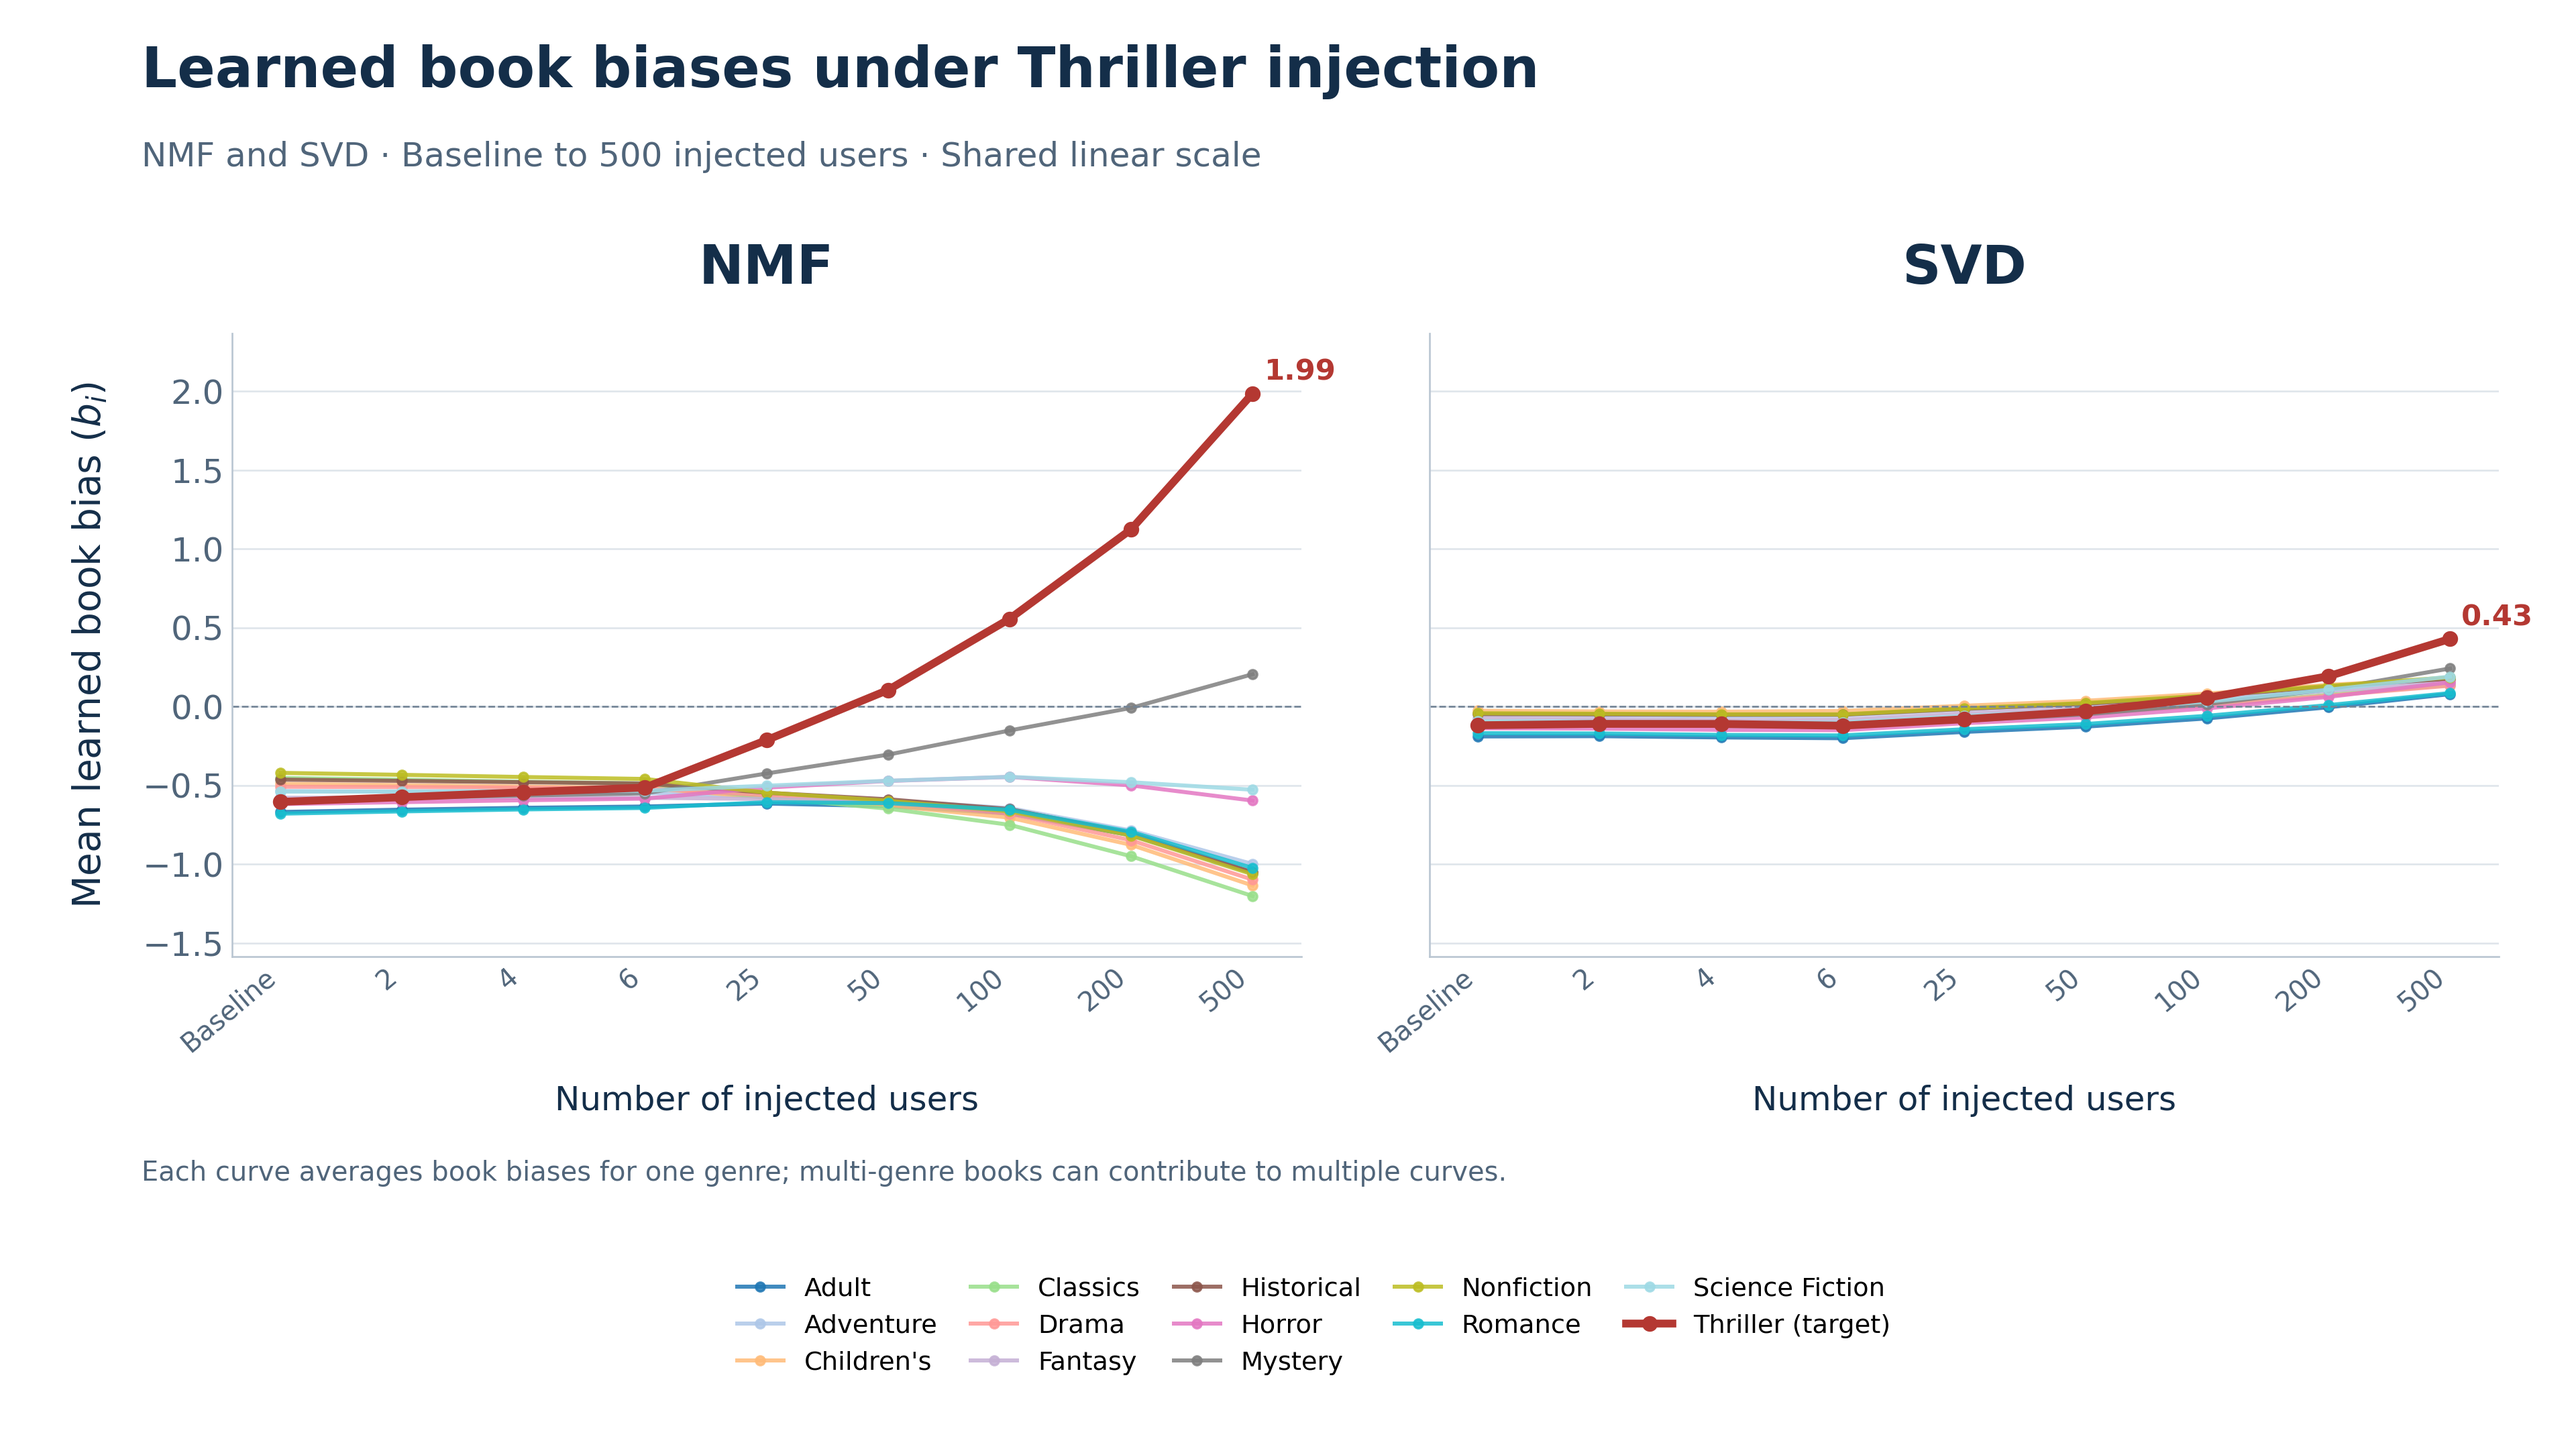
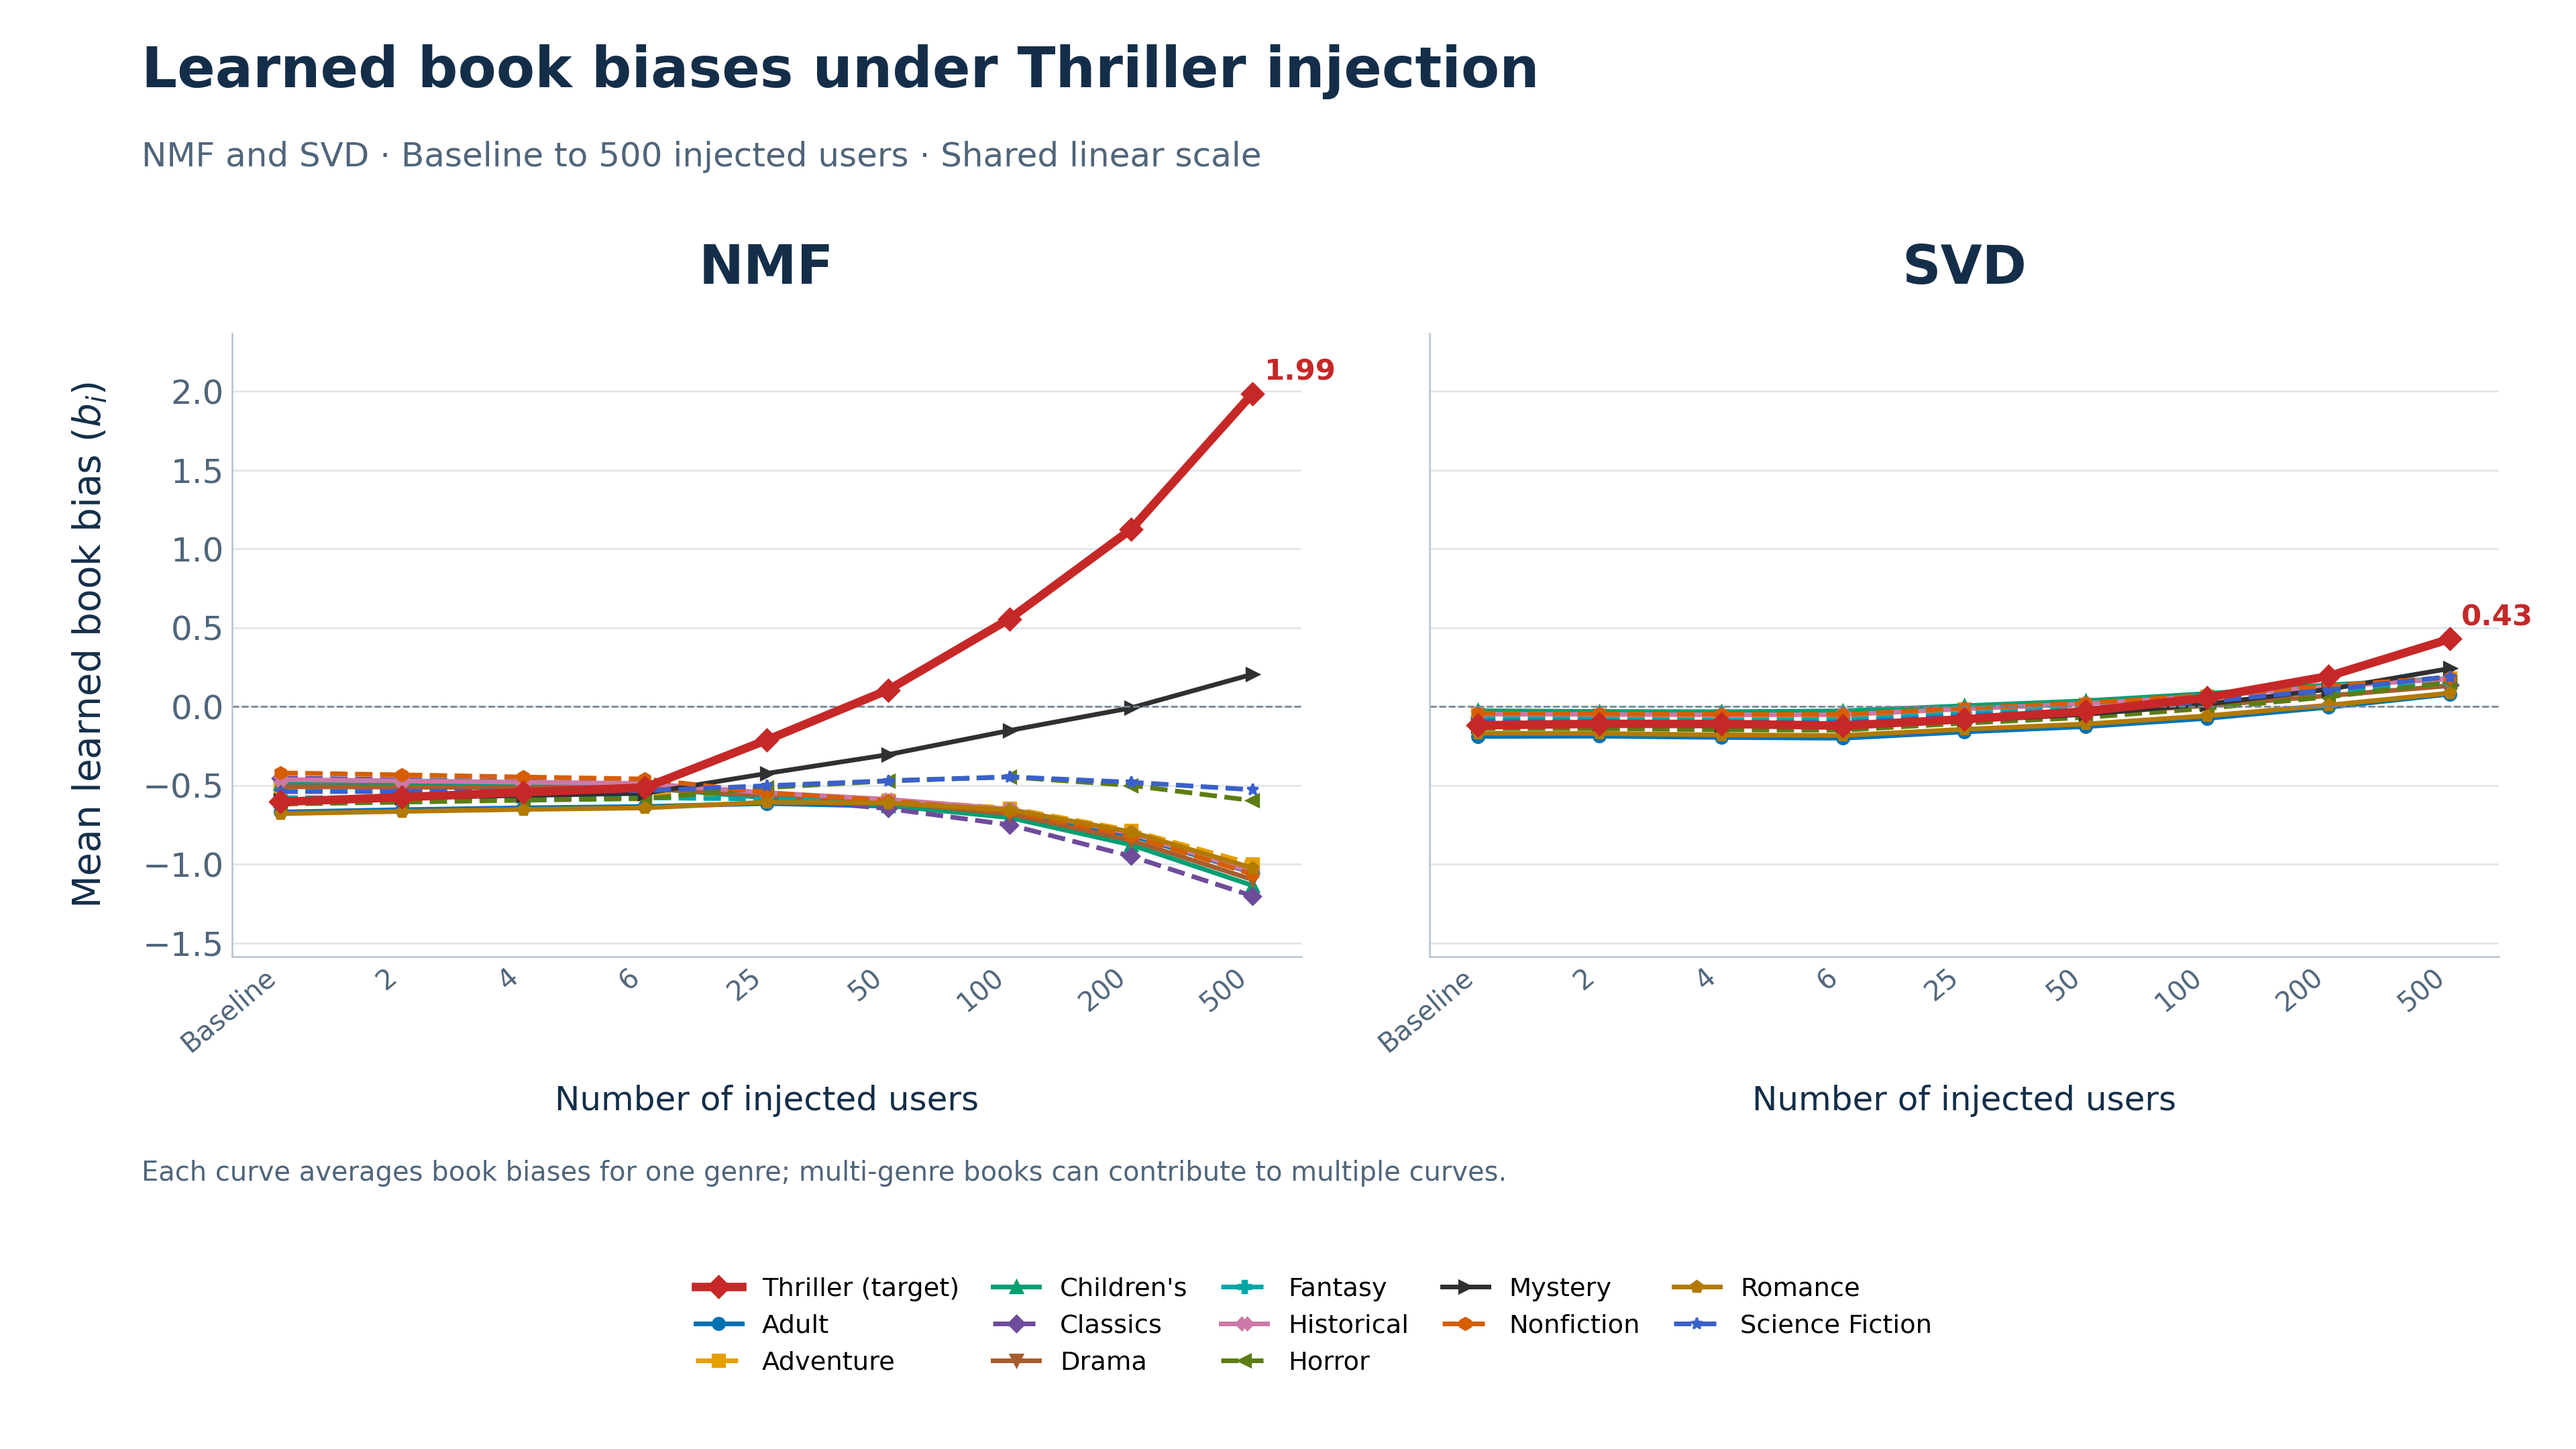
Improve figure colors and add Drama presentation comparisons

diff --git a/Book/current/PerturbRec/svd_nmf/layer1/notebook/build_thriller_up_to_500.py b/Book/current/PerturbRec/svd_nmf/layer1/notebook/build_thriller_up_to_500.py
@@ -1,5 +1,5 @@
 #!/usr/bin/env python3
-"""Two PNG presentation figures from existing controlled tables; no retraining."""
+"""PNG presentation figures for Thriller/Drama from existing controlled tables; no retraining."""
 from pathlib import Path
 import numpy as np,pandas as pd
 import matplotlib
@@ -8,9 +8,13 @@ import matplotlib.pyplot as plt
 from matplotlib.ticker import MultipleLocator
 ROOT=Path('/home/moshtasa/Research/phd-recsys/Book/current/PerturbRec/svd_nmf/layer1')
 OUT=ROOT/'result/final_results'
+GENRE='Thriller'
 COUNTS=[0,2,4,6,25,50,100,200,500]
 TICKS=['Baseline']+list(map(str,COUNTS[1:]))
-NAVY='#142E49';MUTED='#50657A';BLUE='#2868A2';TEAL='#148277';TARGET='#B43832'
+NAVY='#142E49';MUTED='#50657A';TARGET='#C62828'
+DOSE_COLORS=['#586979','#0072B2','#E69F00','#009E73','#7B4AB5','#D55E00','#009DBA','#C75B9B','#233B75']
+GENRE_COLORS={'Adult':'#0072B2','Adventure':'#E69F00',"Children's":'#009E73','Classics':'#6F4C9B','Drama':'#A65E2E','Fantasy':'#00A6A6','Historical':'#CC79A7','Horror':'#5C7D14','Mystery':'#303030','Nonfiction':'#D55E00','Science Fiction':'#3A60CB','Romance':'#B27A00','Thriller':'#006D77'}
+MARKERS=['o','s','^','D','v','P','X','<','>','h','p','*']
 plt.rcParams.update({'font.family':'DejaVu Sans','font.size':15,'axes.spines.top':False,'axes.spines.right':False})
 
 def style(ax):
@@ -25,59 +29,62 @@ def save(fig,name):
  fig.savefig(p,dpi=240,facecolor='white');plt.close(fig);print('SAVED',p,flush=True)
 
 def bars():
- df=pd.read_csv(ROOT/'tables/controlled_thriller_top15.csv')
- df=df[(df.genre=='Thriller')&(df.k==15)&df.n_fake.isin(COUNTS)]
+ df=pd.read_csv(ROOT/f'tables/controlled_{GENRE.lower()}_top15.csv')
+ df=df[(df.genre==GENRE)&(df.k==15)&df.n_fake.isin(COUNTS)]
  assert len(df)==18 and (df.n_users==53424).all()
  fig,axes=plt.subplots(1,2,figsize=(16,9),sharey=True)
- for ax,model,color in zip(axes,['nmf','svd'],[BLUE,TEAL]):
+ for ax,model in zip(axes,['nmf','svd']):
   d=df[df.model==model].sort_values('n_fake');assert d.n_fake.tolist()==COUNTS
   assert d.mean_target_count.between(0,15).all()
   vals=d.mean_target_count.to_numpy()
-  ax.bar(range(len(COUNTS)),vals,width=.76,color=['#576C80']+[color]*8,zorder=3)
+  ax.bar(range(len(COUNTS)),vals,width=.76,color=DOSE_COLORS,edgecolor='white',linewidth=1.2,zorder=3)
   for x,y in enumerate(vals):ax.text(x,y+.20,f'{y:.2f}',ha='center',fontsize=12,weight='bold',color=NAVY)
   style(ax);ax.set_ylim(0,15);ax.yaxis.set_major_locator(MultipleLocator(3))
   ax.set_title(model.upper(),fontsize=24,weight='bold',color=NAVY,pad=22)
- axes[0].set_ylabel('Mean Thriller books in Top-15',fontsize=17,color=NAVY,labelpad=15)
+ axes[0].set_ylabel(f'Mean {GENRE} books in Top-15',fontsize=17,color=NAVY,labelpad=15)
  fig.subplots_adjust(left=.09,right=.97,bottom=.23,top=.77,wspace=.12)
- fig.text(.055,.94,'Thriller recommendations after synthetic-user injection',fontsize=25,weight='bold',color=NAVY)
+ fig.text(.055,.94,f'{GENRE} recommendations after synthetic-user injection',fontsize=25,weight='bold',color=NAVY)
  fig.text(.055,.885,'NMF and SVD · Top-15 · Baseline to 500 injected users',fontsize=15,color=MUTED)
- fig.text(.055,.09,'Mean over 53,424 real users; previously rated books excluded. Gray bars = baseline.',fontsize=12.5,color=NAVY)
- fig.text(.055,.045,'Synthetic profiles: Thriller books rated 5, other books rated 1. Existing controlled runs; no retraining.',fontsize=12,color=MUTED)
- save(fig,'Thriller_bars_top15_up_to_500.png')
+ fig.text(.055,.09,'Mean over 53,424 real users; previously rated books excluded. Matching colors represent the same injection size in both models.',fontsize=12.5,color=NAVY)
+ fig.text(.055,.045,f'Synthetic profiles: {GENRE} books rated 5, other books rated 1. Existing controlled runs; no retraining.',fontsize=12,color=MUTED)
+ save(fig,f'{GENRE}_bars_top15_up_to_500.png')
 
 def bias():
  sets={}
  for model in ['nmf','svd']:
   rows=[]
   for n in COUNTS:
-   name='ORIGINAL_bi_per_genre.csv' if n==0 else f'f_Thriller_{n}u_pos5_neg1_books_bi_per_genre.csv'
+   name='ORIGINAL_bi_per_genre.csv' if n==0 else f'f_{GENRE}_{n}u_pos5_neg1_books_bi_per_genre.csv'
    d=pd.read_csv(ROOT/'result'/model/'bi'/name)
    d=d[(d.n_fake==n)&(d.genre.str.lower()!='unknown')]
    assert not d.genre.duplicated().any() and (d.training_protocol=='controlled_clean_catalog').all()
    rows.append(d)
   sets[model]=pd.concat(rows,ignore_index=True)
  genres=sorted(sets['nmf'].genre.unique());assert len(genres)==13 and set(genres)==set(sets['svd'].genre)
- others=[g for g in genres if g!='Thriller'];colors=plt.cm.tab20(np.linspace(0,1,len(others)))
+ others=[g for g in genres if g!=GENRE];assert set(genres)==set(GENRE_COLORS)
  fig,axes=plt.subplots(1,2,figsize=(16,9),sharey=True)
  allvalues=pd.concat(list(sets.values())).avg_bi
  lo=float(allvalues.min());hi=float(allvalues.max());pad=.12*(hi-lo)
  for ax,model in zip(axes,['nmf','svd']):
   data=sets[model]
-  for genre,c in zip(others,colors):
+  for j,genre in enumerate(others):
    d=data[data.genre==genre].sort_values('n_fake');assert d.n_fake.tolist()==COUNTS
-   ax.plot(range(len(COUNTS)),d.avg_bi,'o-',lw=1.8,ms=4,color=c,alpha=.85,label=genre)
-  d=data[data.genre=='Thriller'].sort_values('n_fake');assert d.n_fake.tolist()==COUNTS
-  ax.plot(range(len(COUNTS)),d.avg_bi,'o-',lw=3.5,ms=6,color=TARGET,label='Thriller (target)',zorder=10)
+   ax.plot(range(len(COUNTS)),d.avg_bi,marker=MARKERS[j],ls='-' if j%2==0 else '--',lw=2.1,ms=5.3,color=GENRE_COLORS[genre],alpha=1,label=genre)
+  d=data[data.genre==GENRE].sort_values('n_fake');assert d.n_fake.tolist()==COUNTS
+  ax.plot(range(len(COUNTS)),d.avg_bi,'D-',lw=3.8,ms=7,color=TARGET,label=f'{GENRE} (target)',zorder=10)
   ax.annotate(f'{d.avg_bi.iloc[-1]:.2f}',(8,d.avg_bi.iloc[-1]),xytext=(5,6),textcoords='offset points',color=TARGET,weight='bold',fontsize=13)
   ax.axhline(0,color='#738496',lw=.8,ls='--');style(ax)
   ax.set_ylim(lo-pad,hi+pad);ax.set_title(model.upper(),fontsize=24,weight='bold',color=NAVY,pad=22)
  axes[0].set_ylabel(r'Mean learned book bias ($b_i$)',fontsize=17,color=NAVY,labelpad=15)
  fig.subplots_adjust(left=.09,right=.97,bottom=.34,top=.77,wspace=.12)
- fig.text(.055,.94,'Learned book biases under Thriller injection',fontsize=25,weight='bold',color=NAVY)
+ fig.text(.055,.94,f'Learned book biases under {GENRE} injection',fontsize=25,weight='bold',color=NAVY)
  fig.text(.055,.885,'NMF and SVD · Baseline to 500 injected users · Shared linear scale',fontsize=15,color=MUTED)
- handles,labels=axes[0].get_legend_handles_labels()
+ handles,labels=axes[0].get_legend_handles_labels();handles=[handles[-1]]+handles[:-1];labels=[labels[-1]]+labels[:-1]
  fig.legend(handles,labels,loc='lower center',bbox_to_anchor=(.51,.035),ncol=5,frameon=False,fontsize=11.5,columnspacing=1.3,handlelength=1.8)
  fig.text(.055,.185,'Each curve averages book biases for one genre; multi-genre books can contribute to multiple curves.',fontsize=12,color=MUTED)
- save(fig,'Thriller_bi_only_up_to_500.png')
+ save(fig,f'{GENRE}_bi_only_up_to_500.png')
 
-if __name__=='__main__':bars();bias()
+if __name__=='__main__':
+ import argparse
+ parser=argparse.ArgumentParser();parser.add_argument('--genre',choices=['Thriller','Drama','both'],default='both');args=parser.parse_args()
+ for GENRE in (['Thriller','Drama'] if args.genre=='both' else [args.genre]):bars();bias()
